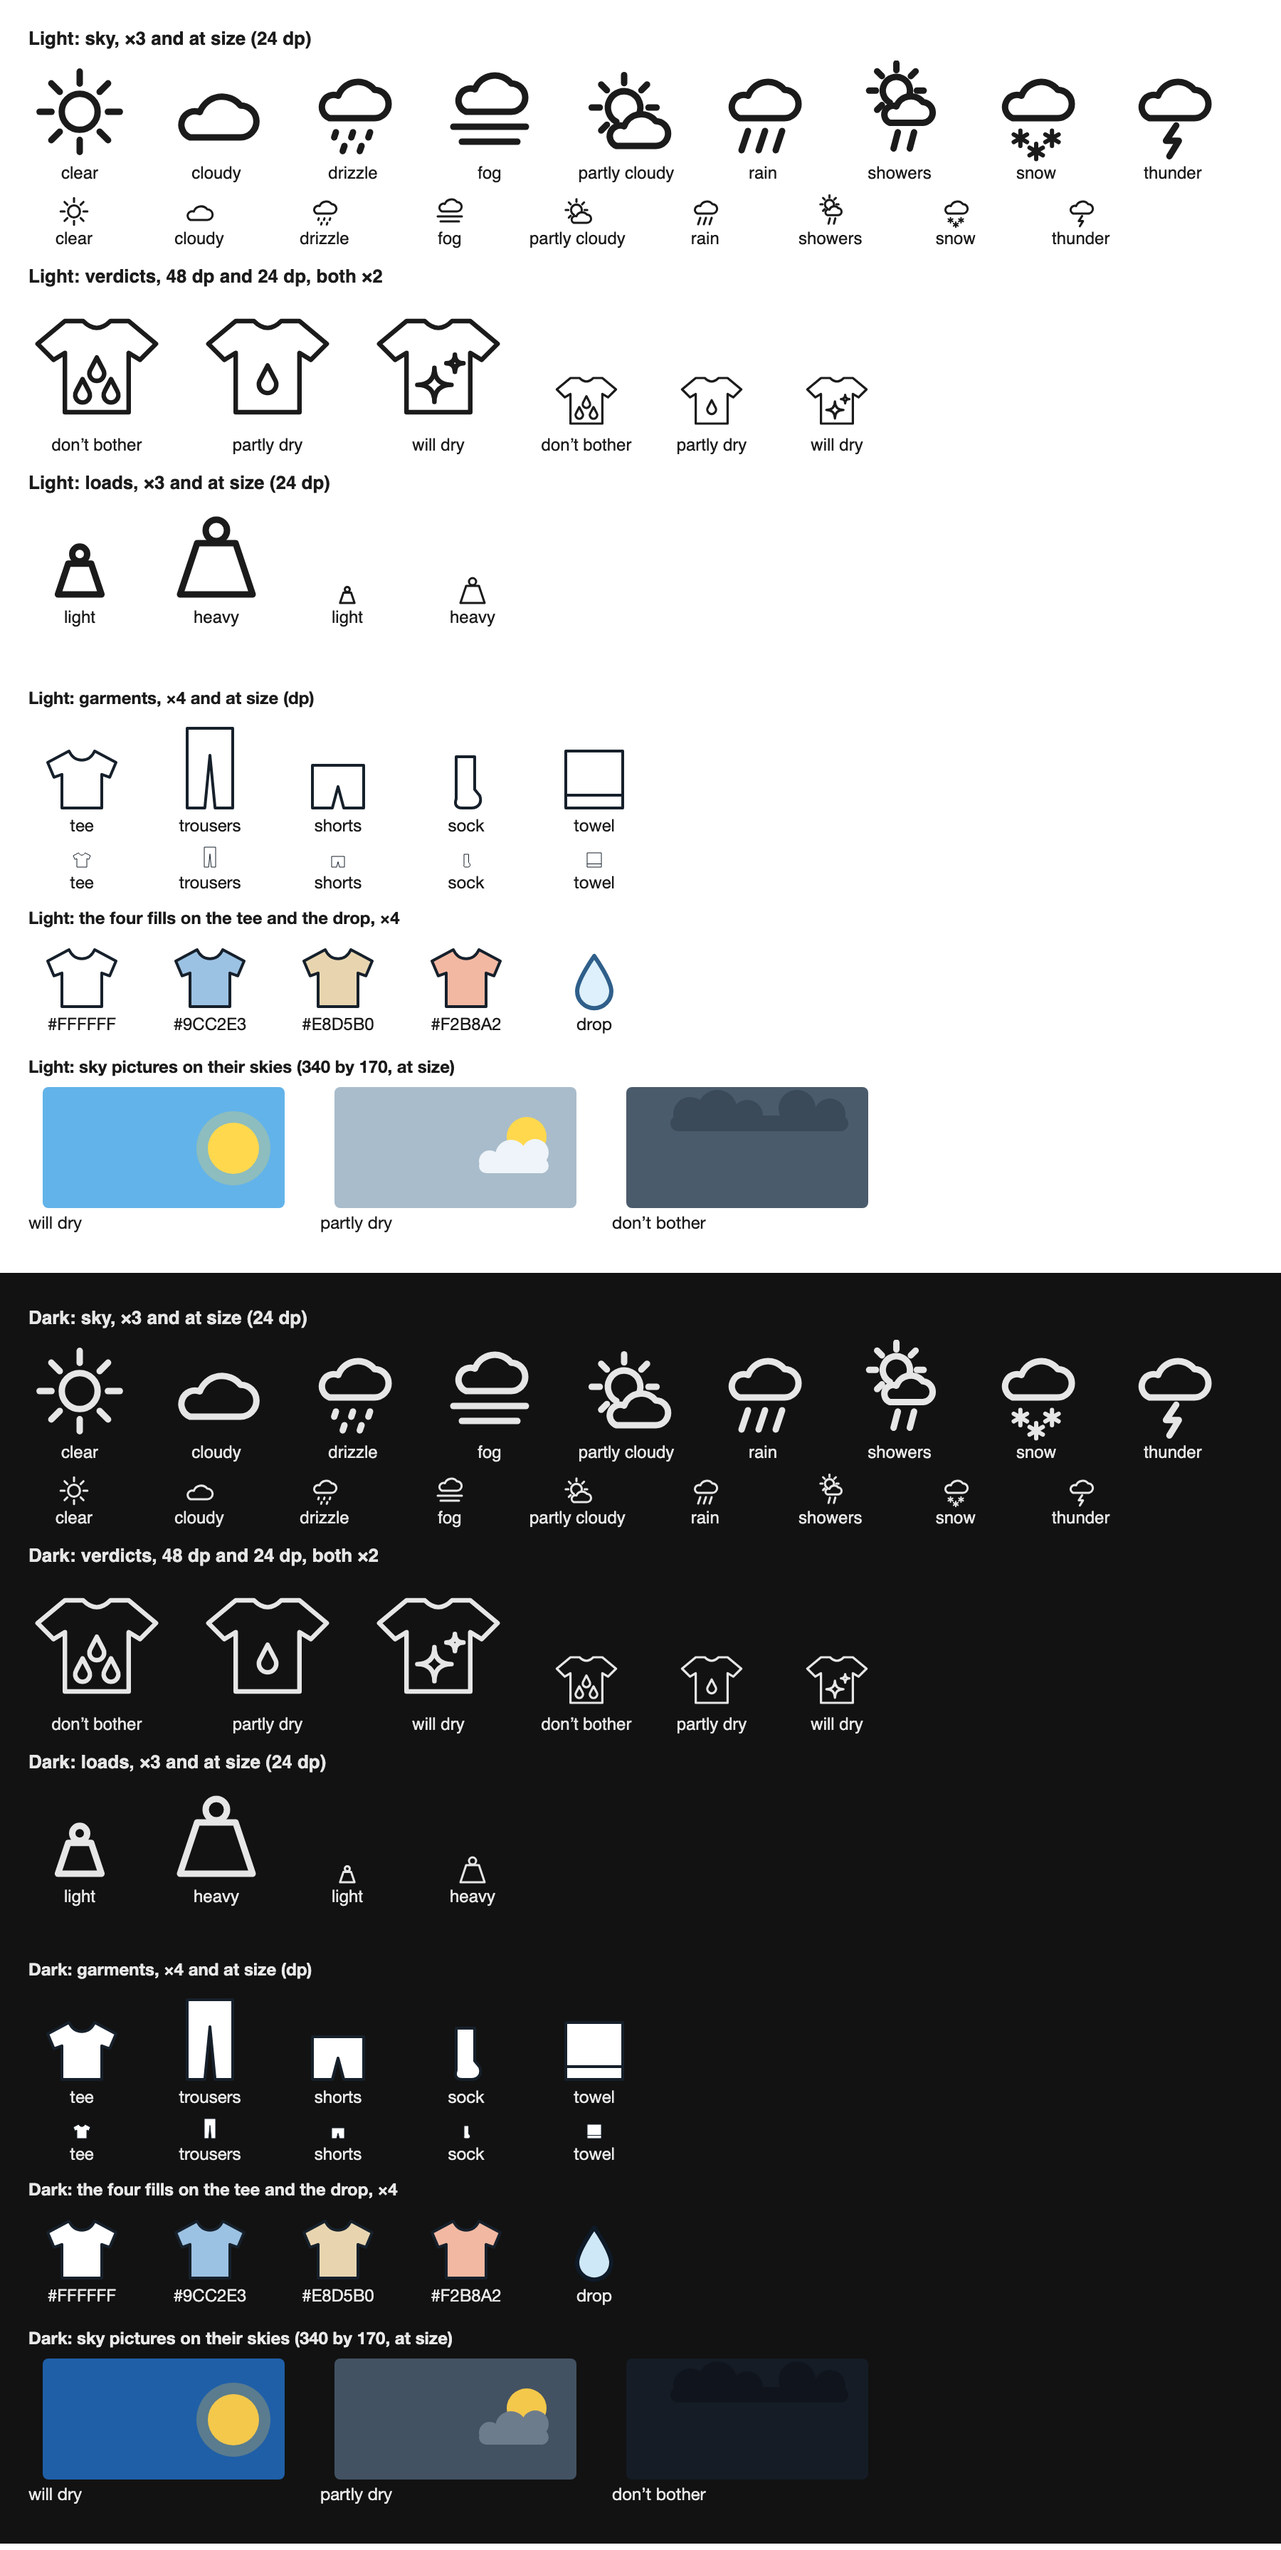
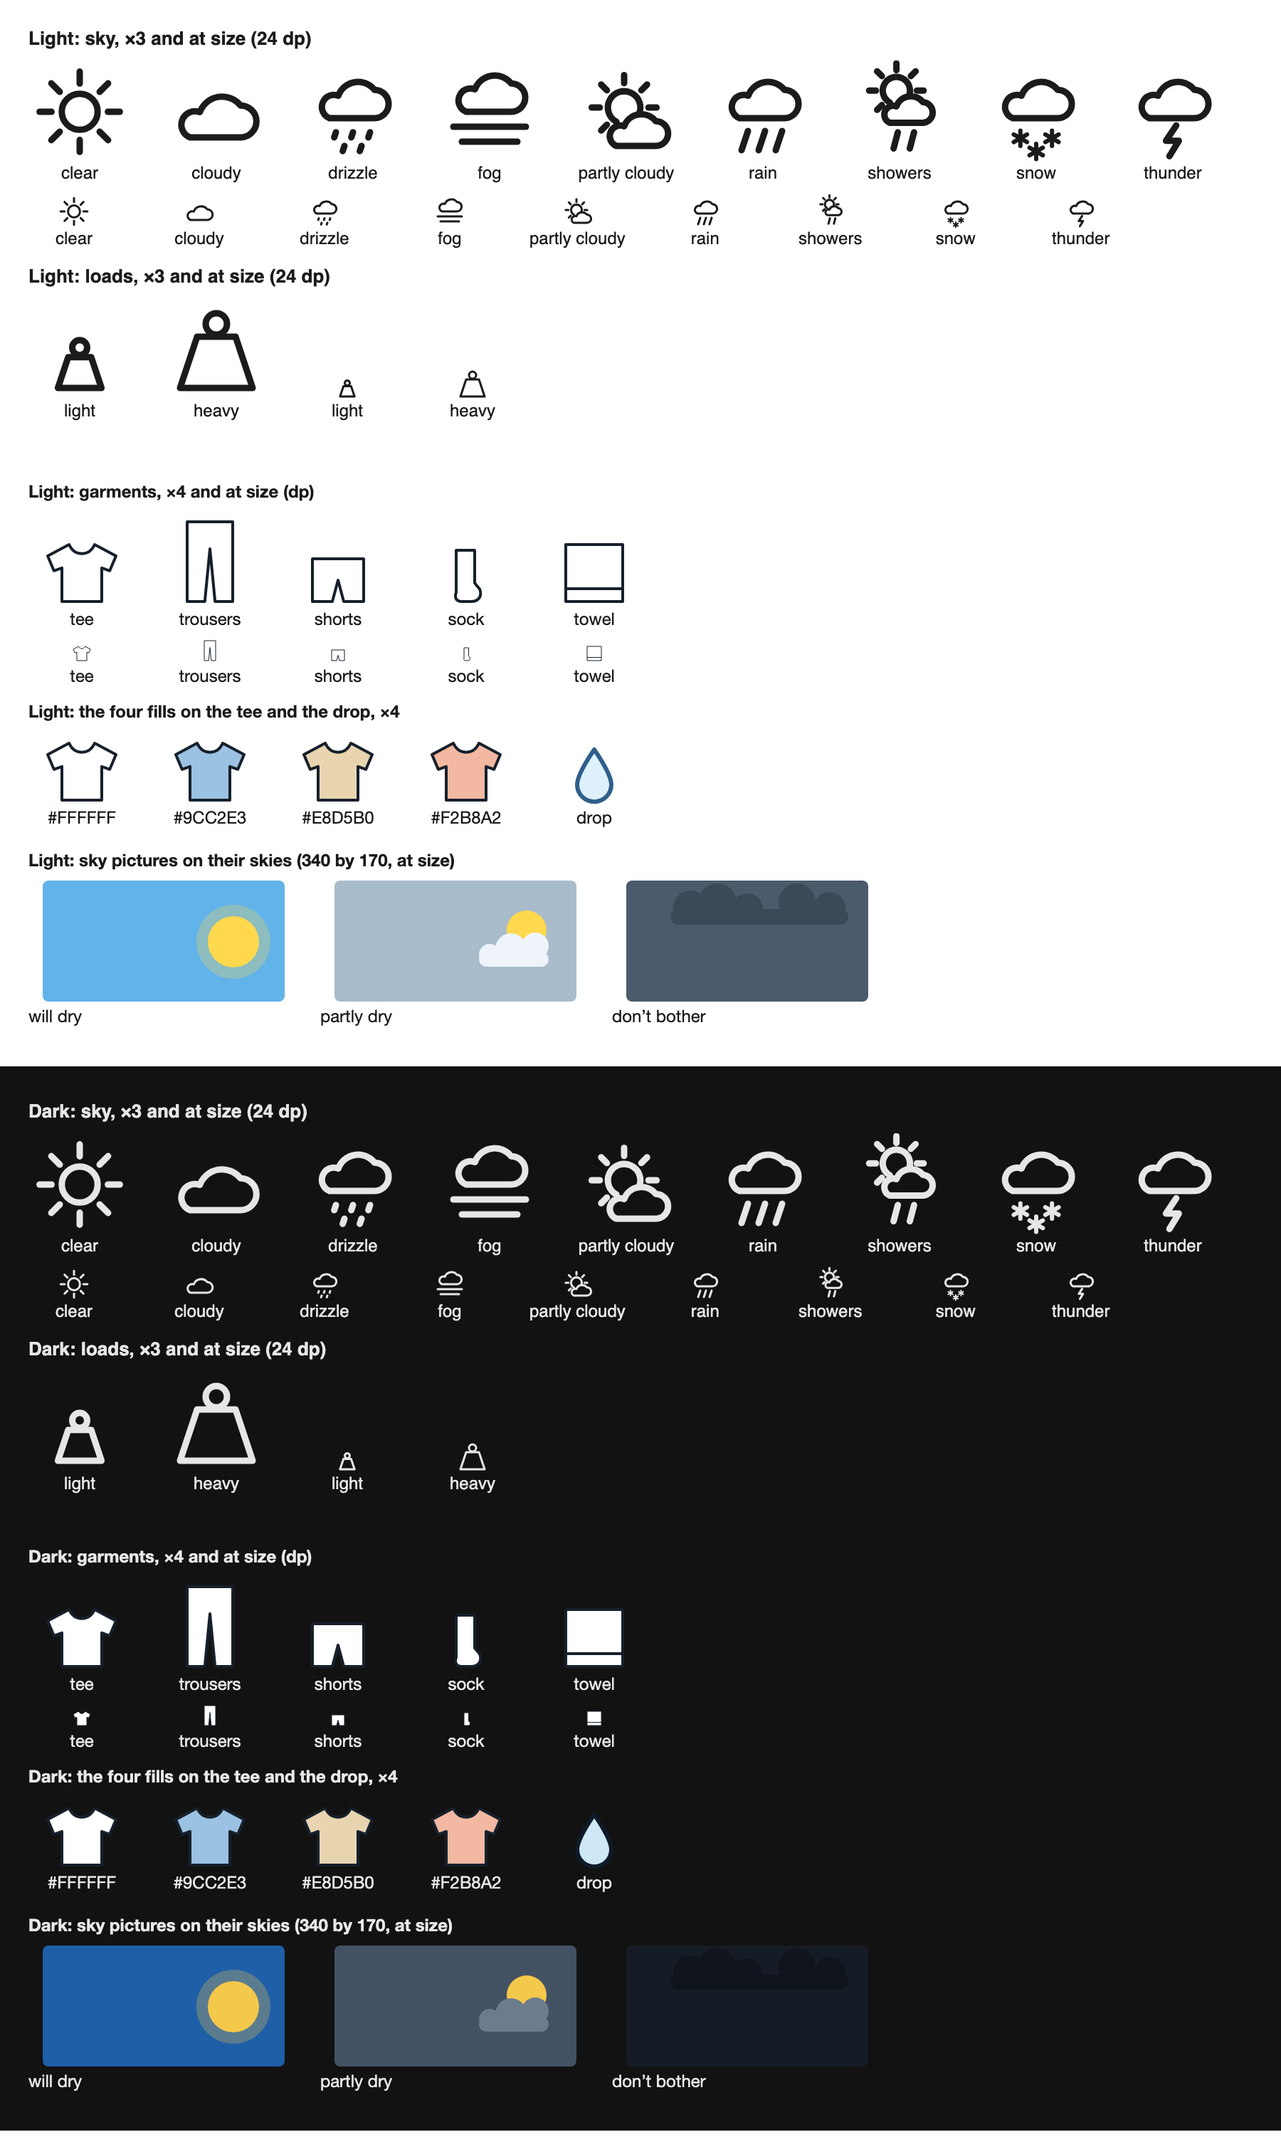
Bolt 9 PR 5b: the colours (#86)
* Bolt 9 PR 5b: the colours

The Colour table's new values, from the review of PR 5:

- secondPrint token (#2F5F8A at 30 % in both modes) for the verdict's second print
- garmentOutline token (#16202B light, #7D8794 dark) for the garments' outlines
- the dark cloud's dark value is #56677A, still drawn at 55 %
- sunRing token (white at 30 % light, 18 % dark) for the sun's ring
- the laundry-blue focus ring is provided once in App, so first run, search and
  places have it too
- the verdict pictures row is out of art/pictures-sheet.png, in both halves

PaletteTokensTest holds the new values. No contrast check changed.

* Bolt 9 PR 5b: one focus ring provider

App provides the focus ring for every screen, so the main screen no longer
provides its own; App reuses its palette for the status bar.

---------

diff --git a/shared/src/commonMain/kotlin/io/github/dryingday/forecast/MainScreen.kt b/shared/src/commonMain/kotlin/io/github/dryingday/forecast/MainScreen.kt
@@ -1,6 +1,5 @@
 package io.github.dryingday.forecast
 
-import androidx.compose.foundation.LocalIndication
 import androidx.compose.foundation.background
 import androidx.compose.foundation.layout.Arrangement
 import androidx.compose.foundation.layout.Box
@@ -21,7 +20,6 @@ import androidx.compose.foundation.rememberScrollState
 import androidx.compose.foundation.text.BasicText
 import androidx.compose.foundation.verticalScroll
 import androidx.compose.runtime.Composable
-import androidx.compose.runtime.CompositionLocalProvider
 import androidx.compose.runtime.derivedStateOf
 import androidx.compose.runtime.getValue
 import androidx.compose.runtime.key
@@ -42,7 +40,6 @@ import androidx.compose.ui.semantics.heading
 import androidx.compose.ui.semantics.semantics
 import androidx.compose.ui.text.TextStyle
 import androidx.compose.ui.unit.dp
-import io.github.dryingday.FocusRing
 import io.github.dryingday.InkButton
 import io.github.dryingday.Palette
 import io.github.dryingday.StatusBarIcons
@@ -139,46 +136,43 @@ fun MainScreen(
     // Only while something on the line or in the sky moves.
     val clock = rememberFrameClock(animations && (sky.rain || cloths.any { it.motion.dripsSmall > 0 }))
     val clothLook = clothLook(colours, animations, clock)
-    val indication = remember(colours) { FocusRing(colours.laundryBlue, colours.ink) }
-    CompositionLocalProvider(LocalIndication provides indication) {
-        Box(Modifier.fillMaxSize().background(colours.page)) {
-            Column(Modifier.verticalScroll(scroll)) {
-                Box(Modifier.onSizeChanged { skyHeight = it.height }) {
-                    SkyScene(sky, colours, animations, clock, placeLabel(place), onPlaces) { ink ->
-                        ClothLine(cloths, showing?.today, days.selected, days.onSelect, ink, clothLook)
-                    }
-                }
-                Column(
-                    Modifier.windowInsetsPadding(
-                        WindowInsets.safeDrawing.only(WindowInsetsSides.Horizontal + WindowInsetsSides.Bottom),
-                    ).padding(SIDE),
-                    verticalArrangement = Arrangement.spacedBy(16.dp),
-                ) {
-                    LoadToggle(state.load, state::chooseLoad, look.body, colours)
-                    LoadNote(notes.load, { notes.load = !notes.load }, look.body)
-                    when (status) {
-                        is ForecastStatus.Showing -> Showing(status, state, days, notes, formatTime, formatHour, look)
-
-                        is ForecastStatus.Loading -> Message(Res.string.forecast_loading, look.body)
-
-                        is ForecastStatus.Failed -> {
-                            Message(status.error.textWithoutForecast(), look.body)
-                            InkButton(stringResource(Res.string.forecast_try_again), colours, onClick = state::refresh)
-                        }
-
-                        is ForecastStatus.OutOfDate -> OutOfDate(status, state, look)
-                    }
-                    SourceAttributions(attributions, color = colours.muted)
+    Box(Modifier.fillMaxSize().background(colours.page)) {
+        Column(Modifier.verticalScroll(scroll)) {
+            Box(Modifier.onSizeChanged { skyHeight = it.height }) {
+                SkyScene(sky, colours, animations, clock, placeLabel(place), onPlaces) { ink ->
+                    ClothLine(cloths, showing?.today, days.selected, days.onSelect, ink, clothLook)
                 }
             }
-            state.refreshNotice?.let {
-                RefreshNoticeBar(
-                    it,
-                    colours,
-                    state::dismissRefreshNotice,
-                    Modifier.safeDrawingPadding().align(Alignment.BottomCenter),
-                )
+            Column(
+                Modifier.windowInsetsPadding(
+                    WindowInsets.safeDrawing.only(WindowInsetsSides.Horizontal + WindowInsetsSides.Bottom),
+                ).padding(SIDE),
+                verticalArrangement = Arrangement.spacedBy(16.dp),
+            ) {
+                LoadToggle(state.load, state::chooseLoad, look.body, colours)
+                LoadNote(notes.load, { notes.load = !notes.load }, look.body)
+                when (status) {
+                    is ForecastStatus.Showing -> Showing(status, state, days, notes, formatTime, formatHour, look)
+
+                    is ForecastStatus.Loading -> Message(Res.string.forecast_loading, look.body)
+
+                    is ForecastStatus.Failed -> {
+                        Message(status.error.textWithoutForecast(), look.body)
+                        InkButton(stringResource(Res.string.forecast_try_again), colours, onClick = state::refresh)
+                    }
+
+                    is ForecastStatus.OutOfDate -> OutOfDate(status, state, look)
+                }
+                SourceAttributions(attributions, color = colours.muted)
             }
+        }
+        state.refreshNotice?.let {
+            RefreshNoticeBar(
+                it,
+                colours,
+                state::dismissRefreshNotice,
+                Modifier.safeDrawingPadding().align(Alignment.BottomCenter),
+            )
         }
     }
 }

diff --git a/shared/src/commonMain/kotlin/io/github/dryingday/App.kt b/shared/src/commonMain/kotlin/io/github/dryingday/App.kt
@@ -1,6 +1,8 @@
 package io.github.dryingday
 
+import androidx.compose.foundation.LocalIndication
 import androidx.compose.runtime.Composable
+import androidx.compose.runtime.CompositionLocalProvider
 import androidx.compose.runtime.LaunchedEffect
 import androidx.compose.runtime.getValue
 import androidx.compose.runtime.mutableIntStateOf
@@ -85,42 +87,57 @@ fun App(
         }
     }
 
-    // The main screen sets them by its sky; the others by the page.
-    if (screen != Screen.Main || places.current == null) StatusBarIcons(palette().ink, statusBarIcons)
-    if (screen == Screen.Search) {
-        backHandler(true, closeSearch)
-        val scope = rememberCoroutineScope()
-        val language = twoLetterLanguage(Locale.current.language)
-        val state = remember(placeStore, searchSource, language) {
-            PlaceSearchState(searchSource, placeStore, language, scope) {
-                places.refresh()
-                closeSearch()
-            }
+    val colours = palette()
+    val indication = remember(colours) { FocusRing(colours.laundryBlue, colours.ink) }
+    CompositionLocalProvider(LocalIndication provides indication) {
+        // The main screen sets them by its sky; the others by the page.
+        if (screen != Screen.Main || places.current == null) StatusBarIcons(colours.ink, statusBarIcons)
+        if (screen == Screen.Search) {
+            backHandler(true, closeSearch)
+            SearchRoute(placeStore, searchSource, places, closeSearch)
+        } else if (places.current == null) {
+            FirstRunScreen(adding, onSearch = {
+                searchFromPlaces = false
+                screen = Screen.Search
+            })
+        } else if (screen == Screen.Places) {
+            backHandler(true) { screen = Screen.Main }
+            PlacesScreen(places, adding, searchSource.attributions, onSearch = {
+                searchFromPlaces = true
+                screen = Screen.Search
+            }) { screen = Screen.Main }
+        } else {
+            MainScreen(
+                place = checkNotNull(current),
+                state = forecast,
+                days = DayPicker(selectedDay) { selectedDay = it },
+                attributions = forecastSource.attributions,
+                formatTime = formatTime,
+                formatHour = formatHour,
+                onPlaces = { screen = Screen.Places },
+                statusBarIcons = statusBarIcons,
+            )
         }
-        PlaceSearchScreen(state, searchSource.attributions, closeSearch)
-    } else if (places.current == null) {
-        FirstRunScreen(adding, onSearch = {
-            searchFromPlaces = false
-            screen = Screen.Search
-        })
-    } else if (screen == Screen.Places) {
-        backHandler(true) { screen = Screen.Main }
-        PlacesScreen(places, adding, searchSource.attributions, onSearch = {
-            searchFromPlaces = true
-            screen = Screen.Search
-        }) { screen = Screen.Main }
-    } else {
-        MainScreen(
-            place = checkNotNull(current),
-            state = forecast,
-            days = DayPicker(selectedDay) { selectedDay = it },
-            attributions = forecastSource.attributions,
-            formatTime = formatTime,
-            formatHour = formatHour,
-            onPlaces = { screen = Screen.Places },
-            statusBarIcons = statusBarIcons,
-        )
     }
+}
+
+/** The place search, with its state made for the language the device is in. */
+@Composable
+private fun SearchRoute(
+    placeStore: PlaceStore,
+    searchSource: PlaceSearchSource,
+    places: PlacesState,
+    closeSearch: () -> Unit,
+) {
+    val scope = rememberCoroutineScope()
+    val language = twoLetterLanguage(Locale.current.language)
+    val state = remember(placeStore, searchSource, language) {
+        PlaceSearchState(searchSource, placeStore, language, scope) {
+            places.refresh()
+            closeSearch()
+        }
+    }
+    PlaceSearchScreen(state, searchSource.attributions, closeSearch)
 }
 
 /** The forecast state, held above the screens so it survives going to the places screen and back. */

diff --git a/shared/src/commonMain/kotlin/io/github/dryingday/Palette.kt b/shared/src/commonMain/kotlin/io/github/dryingday/Palette.kt
@@ -18,10 +18,13 @@ class Palette(
     val muted: Color,
     val rule: Color,
     val laundryBlue: Color,
+    val secondPrint: Color,
     val cloth: Color,
     val clothInk: Color,
+    val garmentOutline: Color,
     val pegWood: Color,
     val sun: Color,
+    val sunRing: Color,
     val cloud: Color,
     val darkCloud: Color,
     val drop: Color,
@@ -37,10 +40,13 @@ class Palette(
             muted = Color(0xFF4A5666),
             rule = Color(0xFFC3CDD7),
             laundryBlue = Color(0xFF2F5F8A),
+            secondPrint = SecondPrint,
             cloth = Color(0xFFFFFFFF),
             clothInk = Color(0xFF16202B),
+            garmentOutline = Color(0xFF16202B),
             pegWood = Color(0xFFC99A5B),
             sun = Color(0xFFFFD84D),
+            sunRing = Color.White.copy(alpha = 0.30f),
             cloud = Color(0xFFEEF4F9),
             darkCloud = Color(0xFF2F3C4A),
             drop = Color(0xFFDDF0FC),
@@ -56,12 +62,15 @@ class Palette(
             muted = Color(0xFFA3ABB6),
             rule = Color(0xFF33383F),
             laundryBlue = Color(0xFF9CC2E3),
+            secondPrint = SecondPrint,
             cloth = Color(0xFFECE8DF),
             clothInk = Color(0xFF16202B),
+            garmentOutline = Color(0xFF7D8794),
             pegWood = Color(0xFFB9893F),
             sun = Color(0xFFF4C84A),
+            sunRing = Color.White.copy(alpha = 0.18f),
             cloud = Color(0xFF6D7C8C),
-            darkCloud = Color(0xFF0C1117),
+            darkCloud = Color(0xFF56677A),
             drop = Color(0xFFCFE8F8),
             dropEdge = Color(0xFF0E1A28),
             willDrySky = Sky(Color(0xFF1F5FA8), Color(0xFFF4F7FA)),
@@ -70,6 +79,9 @@ class Palette(
         )
     }
 }
+
+/** The verdict's second print: the light mode's laundry blue at 30 % in both modes, as the cloth is light in both. */
+private val SecondPrint = Color(0xFF2F5F8A).copy(alpha = 0.30f)
 
 /** The wet patch on a cloth, in both modes. */
 val WetPatchColor = Color(0xFF1C3A5C)

diff --git a/shared/src/commonTest/kotlin/io/github/dryingday/PaletteTokensTest.kt b/shared/src/commonTest/kotlin/io/github/dryingday/PaletteTokensTest.kt
@@ -1,0 +1,33 @@
+package io.github.dryingday
+
+import androidx.compose.ui.graphics.Color
+import kotlin.test.Test
+import kotlin.test.assertEquals
+
+/** The spec's Colour table: the second print, the garments' outline, the dark cloud and the sun ring. */
+class PaletteTokensTest {
+    @Test
+    fun secondPrintIsTheLightBlueAtThirtyPercentInBothModes() {
+        val expected = Color(0xFF2F5F8A).copy(alpha = 0.30f)
+        assertEquals(expected, Palette.light.secondPrint)
+        assertEquals(expected, Palette.dark.secondPrint)
+    }
+
+    @Test
+    fun garmentOutlineIsMidGreyInDarkMode() {
+        assertEquals(Color(0xFF16202B), Palette.light.garmentOutline)
+        assertEquals(Color(0xFF7D8794), Palette.dark.garmentOutline)
+    }
+
+    @Test
+    fun darkCloudIsLighterInDarkMode() {
+        assertEquals(Color(0xFF2F3C4A), Palette.light.darkCloud)
+        assertEquals(Color(0xFF56677A), Palette.dark.darkCloud)
+    }
+
+    @Test
+    fun sunRingIsWhiteAtThirtyAndEighteenPercent() {
+        assertEquals(Color.White.copy(alpha = 0.30f), Palette.light.sunRing)
+        assertEquals(Color.White.copy(alpha = 0.18f), Palette.dark.sunRing)
+    }
+}

diff --git a/shared/src/commonMain/kotlin/io/github/dryingday/forecast/ClothLine.kt b/shared/src/commonMain/kotlin/io/github/dryingday/forecast/ClothLine.kt
@@ -67,7 +67,6 @@ private val DRIP_ROOM = 16.dp
 private val EMPTY_LINE_ROOM = 24.dp
 
 private val PRINT_OFFSET = 2.dp
-private const val PRINT_ALPHA = 0.3f
 private const val OPEN_MS = 400
 
 /** The mock's ease for the widths, cubic-bezier(.3, .7, .2, 1). */
@@ -292,7 +291,7 @@ internal fun clothLook(palette: Palette, animations: Boolean, clock: State<Long>
         name = dayNameStyle().copy(color = palette.clothInk, lineHeight = 1.em, lineHeightStyle = tight),
         verdict = verdictStyle().copy(
             color = palette.clothInk,
-            shadow = Shadow(palette.laundryBlue.copy(alpha = PRINT_ALPHA), Offset(print, print), 0f),
+            shadow = Shadow(palette.secondPrint, Offset(print, print), 0f),
         ),
         body = bodyStyle().copy(color = palette.clothInk),
         animations = animations,

diff --git a/shared/src/commonMain/kotlin/io/github/dryingday/forecast/SkyScene.kt b/shared/src/commonMain/kotlin/io/github/dryingday/forecast/SkyScene.kt
@@ -49,7 +49,6 @@ import io.github.dryingday.bodyStyle
 private const val SKY_FADE_MS = 400
 private const val RAIN_FADE_MS = 500
 private const val RAIN_ALPHA = 0.38f
-private const val RING_ALPHA = 0.28f
 private const val RAIN_CLOUD_ALPHA = 0.55f
 
 /** The space of sky between the place's row and the line, where the picture shows above the cloths. */
@@ -153,7 +152,7 @@ private fun DrawScope.skyPicture(picture: SkyPicture, palette: Palette) {
         scale(unit, unit, Offset.Zero) {
             for (layer in drawing.layers) {
                 val (colour, alpha) = when (layer.role) {
-                    "ring" -> palette.sun to RING_ALPHA
+                    "ring" -> palette.sunRing to 1f
 
                     "sun" -> palette.sun to 1f
 

diff --git a/shared/src/commonMain/kotlin/io/github/dryingday/forecast/Washing.kt b/shared/src/commonMain/kotlin/io/github/dryingday/forecast/Washing.kt
@@ -57,7 +57,7 @@ private fun DrawScope.garment(garment: Garment, left: Float, palette: Palette) {
             drawPath(drawing.layer("fill").path, GarmentColors[garment.colour % GarmentColors.size])
             drawPath(
                 drawing.layer("line").path,
-                palette.clothInk,
+                palette.garmentOutline,
                 style = Stroke(OUTLINE_WIDTH, cap = StrokeCap.Round, join = StrokeJoin.Round),
             )
         }
